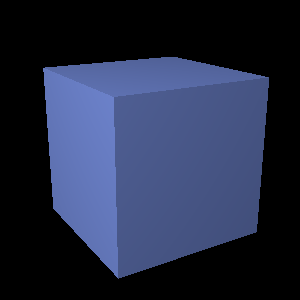
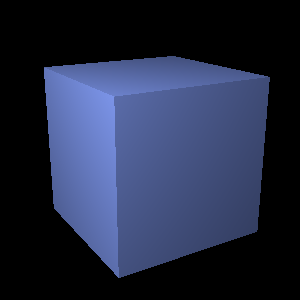
Implement Box
TODO
Phong shade

diff --git a/python_to_do.py b/python_to_do.py
@@ -34,7 +34,7 @@ class Vector3:
     
 
 class Light:
-    def __init__(self, o:Vector3 ,intensity:float):
+    def __init__(self, o:Vector3, intensity:float):
         self.o = o
         self.intensity = intensity
 
@@ -60,7 +60,7 @@ class Shader:
     Lambertian type은 diffuseColor만 소유
 
     color는 .2 .3 1과 같은 형태로 저장
-    사용시 toUINT8() 메소드 활용
+    도형에서 사용시 toUINT8() 메소드 활용
     """
     def __init__(self, name, type, diffuseColor:Color, specularColor:Color = Color(np.zeros(3)), exponent = 0):
         self.name = name
@@ -85,13 +85,13 @@ class Sphere:
             # ray와 원이 안 만나는 경우
             return Intersection( Vector3(0,0,0), -1, Vector3(0,0,0), self)
         else:
-            d = -ray.d.dot(ray.p - self.center)
-            d1 = d - sqrt(q)
-            d2 = d + sqrt(q)
-            if 0 < d1 and ( d1 < d2 or d2 < 0):
-                return Intersection(ray.p+ray.d*d1, d1, self.normal(ray.p+ray.d*d1), self)
-            elif 0 < d2 and ( d2 < d1 or d1 < 0):
-                return Intersection(ray.p+ray.d*d2, d2, self.normal(ray.p+ray.d*d2), self)
+            tm = -ray.d.dot(ray.p - self.center)
+            t0 = tm - sqrt(q)
+            t1 = tm + sqrt(q)
+            if 0 < t0 and ( t0 < t1 or t1 < 0):
+                return Intersection(ray.p + ray.d * t0, t0, self.normal(ray.p+ray.d*t0), self)
+            elif 0 < t1 and ( t1 < t0 or t0 < 0):
+                return Intersection(ray.p + ray.d * t1, t1, self.normal(ray.p+ray.d*t1), self)
             else:
                 return Intersection( Vector3(0,0,0), -1, Vector3(0,0,0), self)
 
@@ -107,7 +107,76 @@ class Box:
         self.color = npToVector3(shader.diffuseColor.toUINT8())
 
     def intersection(self, ray):
-        return
+        # get mimimum and maximum enter value
+        
+        # 어떤 종류의 plane에 normal하게 되는지 저장하는 index
+        # AABB이므로 가능한 normal vectors는 6개로 정해져 있음.
+        normal_index = 0
+
+        # tMin, tMax 먼저 x value로 설정, 그 후 y, z와 비교해가면서 tMin, tMax값 업데이트
+        txMin = (self.minPt.x - ray.p.x) / ray.d.x
+        txMax = (self.maxPt.x - ray.p.x) / ray.d.x
+        if txMin > txMax:
+            txMin, txMax = txMax, txMin
+        tMin = txMin
+        tMax = txMax
+
+        tyMin = (self.minPt.y - ray.p.y) / ray.d.y
+        tyMax = (self.maxPt.y - ray.p.y) / ray.d.y
+        if tyMin > tyMax:
+            tyMin, tyMax, = tyMax, tyMin
+        
+        # out of boundary
+        if tMin > tyMax or tyMin > tMax:
+            return Intersection( Vector3(0,0,0), -1, Vector3(0,0,0), self)
+
+        tMin = max(tMin, tyMin)
+        tMax = min(tMax, tyMax)
+
+        # z value evaluation
+        tzMin = (self.minPt.z - ray.p.z) / ray.d.z
+        tzMax = (self.maxPt.z - ray.p.z) / ray.d.z 
+        if tzMin > tzMax:
+            tzMin, tzMax = tzMax, tzMin
+        
+        # out of boundary
+        if tMin > tzMax or tzMin > tMax:
+            return Intersection( Vector3(0,0,0), -1, Vector3(0,0,0), self)
+
+        tMin = max(tMin, tzMin)
+        tMax = min(tMax, tzMax)
+
+        t = tMin
+
+        if t < 0:
+            t = tMax
+            if t < 0:
+                return Intersection( Vector3(0,0,0), -1, Vector3(0,0,0), self)
+        
+
+        # Noraml Vector 설정
+
+        if t == txMin:
+            normal_index = 0
+        elif t == tyMin:
+            normal_index = 1
+        elif t == tzMin:
+            normal_index = 2
+        elif t == txMax:
+            normal_index = 3
+        elif t == tyMax:
+            normal_index = 4
+        elif t == tzMax:
+            normal_index = 5
+        else:
+            print("ERROR")
+        return Intersection( ray.p + ray.d * t, t, self.normal(normal_index), self)
+    
+
+    def normal(self, normal_index):
+        normals = [Vector3(1,0,0), Vector3(0,1,0), Vector3(0,0,1),
+                    Vector3(-1,0,0), Vector3(0,-1,0), Vector3(0,0,-1)];
+        return normals[normal_index]
 
 
 class Ray:
@@ -117,6 +186,11 @@ class Ray:
 
 class Intersection:
     def __init__(self, point, distance, normal, obj):
+        """
+        p : 물체 위의 ray intersecting point
+        d : ray, p 거리
+        n : p점에서 normal vector
+        """
         self.p = point
         self.d = distance
         self.n = normal
@@ -132,6 +206,8 @@ def object_ray(ray, objects, ignore=None):
                 intersect = currentIntersect
             elif 0 < currentIntersect.d < intersect.d:
                 intersect = currentIntersect
+            else:
+                pass
     return intersect
 
 def trace(ray, objects, lights):
@@ -228,7 +304,6 @@ def main():
         elif c_type == "Lambertian":
             shaders[c_name] = Shader(c_name, c_type, 
                 Color(np.array(c.findtext('diffuseColor').split()).astype(np.float)))
-    print(shaders)
 
 
     # objects to be rendered. Find them in <surface> tag
@@ -242,9 +317,14 @@ def main():
                                 float(c.findtext('radius')),
                                 shaders[shade_name]))
         
-        # box
-        # TODO
-        # elif c.get('type') == 'Box':
+        # Box
+        elif c.get('type') == 'Box':
+            shade_name = c.find('shader').get('ref')
+            objects.append(Box(npToVector3(np.array(c.findtext('minPt').split()).astype(np.float)),
+                                npToVector3(np.array(c.findtext('maxPt').split()).astype(np.float)),
+                                shaders[shade_name]))
+    for obj in objects:
+        print(obj)
 
     # Set values from <light>
     lights = []
@@ -254,6 +334,9 @@ def main():
         intensity = np.array(c.findtext('intensity').split()).astype(np.float)[0]
         light_obj = Light(Vector3(light_position[0], light_position[1], light_position[2]), intensity)
         lights.append(light_obj)
+    
+    for light in lights:
+        print(light)
 
     """
     LOAD FROM XML ENDS
